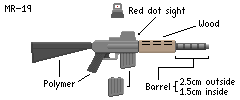
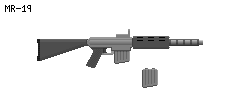
a

diff --git a/Technology/PlasmaticWeaponry.md b/Technology/PlasmaticWeaponry.md
@@ -39,8 +39,8 @@ It is a law in many nations that unsupervised weapons production is a severe cri
 - **Manufacturer:** KAG Armoury
 - **Core:** Mrokek
 - **Rate of Fire:** 660 rpm (auto)
-- **Length:** ~89 centimeters
-- **Weight:** ~3.6 kilograms (unloaded), ~0.35 kilograms (battery)
+- **Length:** 875 mm (with buttstock), 595 mm (without buttstock)
+- **Weight:** ~3.6 kg (unloaded), ~0.35 kg (loaded)
 - **Projectile:** Contained plasma bolt (blue), 5 grams heated to 2000 kelvins and held with 3 kilojoules of energy
 - **Battery capacity:** 30 blasts before weakening, ~40 blasts before empty
 - **Relative Muzzle Velocity:** 500 m/s
@@ -48,7 +48,7 @@ It is a law in many nations that unsupervised weapons production is a severe cri
 
 The MR-19 is a plasmatic rifle manufactured by KAG Armoury and the current service rifle of the Kagalarian army. It is valued for its effectiveness, reliability, and high quality-to-cost ratio.
 
-A standard MR-19 is 90 centimetres long, including a 30-centimetre polymer buttstock with a thin metal core, a polymer grip angled at 20 degrees, a red dot sight, and a bright wooden handguard with air vents. It has five heat sinks placed around the barrel. Its barrel is 2.5 centimetres thick and 1.5 centimetres hollow. Military variants have a sling connected from the end of the stock to the end of the wooden handguard.
+A standard MR-19 is decorated with a 26-centimetre polymer buttstock with a thin metal core, a polymer grip angled at 20 degrees, a reflex sight, an insulating rubber handguard with air vents, and 5 heat sinks around the barrel. Military variants have a sling connected from the end of the stock to the end of the handguard.
 
 MR-19 batteries are 10 cm x 8 cm, which is shorter and wider than the grip. It can provide around 40 shots before completely running out of power.
 
@@ -72,7 +72,7 @@ When loaded, an MR-19 weighs about 3.95 kilograms and is slightly front-heavy wi
 
 The O-9 is a small plasmatic rifle manufactured by Olgorzast Arsenal Cooperations. It is used by special law enforcement units and special military forces.
 
-A standard O-9 comes with a polymer buttstock, a built-in reflex sight, 7 heat sinks, and a metal handguard covered with insulating rubber.
+A standard O-9 comes with a polymer buttstock, a built-in reflex sight, a metal handguard covered with insulating rubber, and 7 heat sinks.
 </details>
 <details>
 <summary><b>TAC-11T (TAC-11 Tiva)</b></summary>
